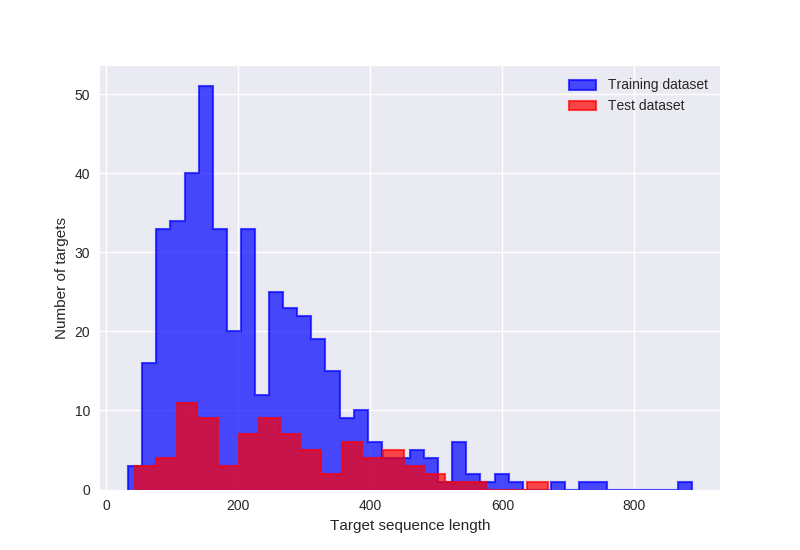
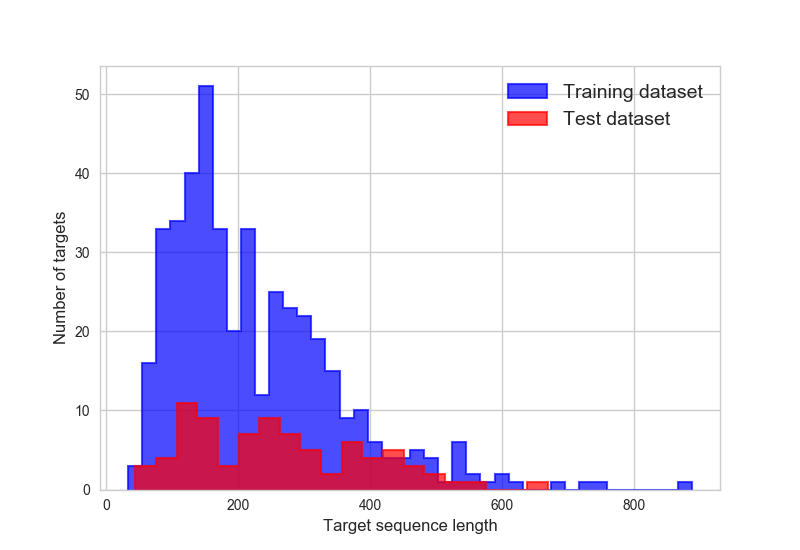
Draft: Figures and results update

diff --git a/scripts/Figures/plotTestResults.py b/scripts/Figures/plotTestResults.py
@@ -2,10 +2,14 @@ import os
 import sys
 import numpy as np
 from plotTrainingProcess import read_dataset_description, read_epoch_output, plotFunnels
+
 from matplotlib import pylab as plt
 from proteinProperties import getPDBBoundingBox
 import cPickle as pkl
 import operator
+
+import seaborn as sea
+sea.set_style("whitegrid")
 
 def get_correlations(proteins, decoys, decoys_scores, subset=None, return_all=False):
 	import scipy
@@ -347,29 +351,29 @@ def plot_test_outliers(	experiment_name = 'QA',
 	
 	
 if __name__=='__main__':
-	testResults = True
+	testResults = False
 	inspect_monomers = False
-	lossVsEcod = False
+	lossVsEcod = True
 	getOutliers = False
 	uniformDecoys = False
 	if testResults:
-		# plot_test_results(	experiment_name = 'QA_uniform',
-		# 					model_name = 'ranking_model_8',
-		# 					trainig_dataset_name = 'CASP_SCWRL',
-		# 					test_dataset_name = '3DRobot_set',
-		# 					# test_dataset_name = 'CASP_SCWRL',
-		# 					test_dataset_subset = 'datasetDescription.dat',
-		# 					decoy_ranging_column = 'gdt-ts',
-		# 					suffix = '_sFinal', best_worst=True)
-
 		plot_test_results(	experiment_name = 'QA_uniform',
 							model_name = 'ranking_model_8',
 							trainig_dataset_name = 'CASP_SCWRL',
-							test_dataset_name = 'CASP11Stage2_SCWRL',
+							test_dataset_name = '3DRobot_set',
 							# test_dataset_name = 'CASP_SCWRL',
 							test_dataset_subset = 'datasetDescription.dat',
 							decoy_ranging_column = 'gdt-ts',
-							suffix = '_sFinal')
+							suffix = '_sFinal', best_worst=True)
+
+		# plot_test_results(	experiment_name = 'QA_uniform',
+		# 					model_name = 'ranking_model_8',
+		# 					trainig_dataset_name = 'CASP_SCWRL',
+		# 					test_dataset_name = 'CASP11Stage2_SCWRL',
+		# 					# test_dataset_name = 'CASP_SCWRL',
+		# 					test_dataset_subset = 'datasetDescription.dat',
+		# 					decoy_ranging_column = 'gdt-ts',
+		# 					suffix = '_sFinal')
 
 		# plot_test_results(	experiment_name = 'RWPlus',
 		# 					model_name = None,
@@ -391,10 +395,37 @@ if __name__=='__main__':
 		# 					suffix = '',
 		# 					descending=False)
 
-		# plot_test_results(	experiment_name = 'ProQ3',
+		# plot_test_results(	experiment_name = 'ProQ3D',
 		# 					model_name = None,
 		# 					trainig_dataset_name = None,
 		# 					test_dataset_name = 'CASP11Stage1_SCWRL',
+		# 					# test_dataset_name = 'CASP_SCWRL',
+		# 					test_dataset_subset = 'datasetDescription.dat',
+		# 					decoy_ranging_column = 'gdt-ts',
+		# 					suffix = '',
+		# 					descending=False)
+		# plot_test_results(	experiment_name = 'ProQ2D',
+		# 					model_name = None,
+		# 					trainig_dataset_name = None,
+		# 					test_dataset_name = 'CASP11Stage1_SCWRL',
+		# 					# test_dataset_name = 'CASP_SCWRL',
+		# 					test_dataset_subset = 'datasetDescription.dat',
+		# 					decoy_ranging_column = 'gdt-ts',
+		# 					suffix = '',
+		# 					descending=False)
+		# plot_test_results(	experiment_name = 'ProQ3D',
+		# 					model_name = None,
+		# 					trainig_dataset_name = None,
+		# 					test_dataset_name = 'CASP11Stage2_SCWRL',
+		# 					# test_dataset_name = 'CASP_SCWRL',
+		# 					test_dataset_subset = 'datasetDescription.dat',
+		# 					decoy_ranging_column = 'gdt-ts',
+		# 					suffix = '',
+		# 					descending=False)
+		# plot_test_results(	experiment_name = 'ProQ2D',
+		# 					model_name = None,
+		# 					trainig_dataset_name = None,
+		# 					test_dataset_name = 'CASP11Stage2_SCWRL',
 		# 					# test_dataset_name = 'CASP_SCWRL',
 		# 					test_dataset_subset = 'datasetDescription.dat',
 		# 					decoy_ranging_column = 'gdt-ts',
@@ -415,6 +446,22 @@ if __name__=='__main__':
 	
 	
 	if lossVsEcod:
+		resProQ2D=plot_matched_results(	experiment_name = 'ProQ2D',
+								model_name = None,
+								trainig_dataset_name = None,
+								test_dataset_name = 'CASP11Stage2_SCWRL',
+								test_dataset_subset = 'datasetDescription.dat',
+								decoy_ranging_column = 'gdt-ts',
+								suffix = '',
+								descending=False)
+		resProQ3D=plot_matched_results(	experiment_name = 'ProQ3D',
+								model_name = None,
+								trainig_dataset_name = None,
+								test_dataset_name = 'CASP11Stage2_SCWRL',
+								test_dataset_subset = 'datasetDescription.dat',
+								decoy_ranging_column = 'gdt-ts',
+								suffix = '',
+								descending=False)
 		resVMQA=plot_matched_results(	experiment_name = 'VoroMQA',
 								model_name = None,
 								trainig_dataset_name = None,
@@ -442,20 +489,24 @@ if __name__=='__main__':
 							decoy_ranging_column = 'gdt-ts',
 							suffix = '_sFinal')
 		
-		fig = plt.figure(figsize=(12,10))
+		fig = plt.figure(figsize=(10,10))
 		ax = fig.add_subplot(111)
 		ind = np.arange(5)
 		width = 0.35
-		plt.bar(ind, resVMQA, width/4.0, label = 'VoroMQA')
-		plt.bar(ind+width/3.0, resRW, width/4.0, label = 'RWPlus', color = 'y')
-		plt.bar(ind+2.0*width/3.0, resCNN, width/4.0, label = '3DCNN', color = 'r')
+		plt.bar(ind, resCNN, width/6.0, label = '3DCNN', color = 'r')
+		plt.bar(ind+width/5.0, resRW, width/6.0, label = 'RWPlus', color = 'y')
+		plt.bar(ind+2.0*width/5.0, resVMQA, width/6.0, label = 'VoroMQA')
+		plt.bar(ind+3.0*width/5.0, resProQ2D, width/6.0, label = 'ProQ2D', color = 'g')
+		plt.bar(ind+4.0*width/5.0, resProQ3D, width/6.0, label = 'ProQ3D', color = 'b')
 		ax.set_xticklabels(['No information', 'A','A+X','A+X+H+T','A+X+H+T+F'], rotation=90)
 		ax.set_xticks(ind+width/2.0, minor=False)
 		plt.tick_params(axis='x', which='major', labelsize=16)
+		plt.tick_params(axis='y', which='major', labelsize=16)
 		ax.set_xlim([-0.5,4.5])
-		ax.set_aspect(25)
+		ax.set_ylim([0,0.14])
+		ax.set_aspect(30)
 		plt.ylabel('Loss',fontsize=16)
-		plt.legend()
+		plt.legend(prop={'size':16})
 		plt.savefig("LossVsECOD.png")
 		
 

diff --git a/scripts/Figures/ScoringFunctions/ProQ3.py b/scripts/Figures/ScoringFunctions/ProQ3.py
@@ -31,7 +31,10 @@ def prepare_dataset(dataset_name, output_dir):
 	
 	for n,protein in enumerate(proteins):
 		print protein
-		os.mkdir(os.path.join(results_dir, protein))
+		try:
+			os.mkdir(os.path.join(results_dir, protein))
+		except:
+			pass
 		decoys_output_filename = os.path.join(results_dir, protein, 'decoys.txt')
 		fasta_output_filename = os.path.join(results_dir, protein, 'seq.fasta')
 		with open(decoys_output_filename,'w') as fout:
@@ -88,8 +91,13 @@ def score_decoy_preprofiled(decoy_path, profile_path, output_path):
 	os.chdir(os.path.realpath(__file__)[:os.path.realpath(__file__).rfind('/')])
 
 
-def score_dataset(dataset_dir, profiles_dataset_dir=None):
-	for target in os.listdir(dataset_dir):
+def score_dataset(dataset_dir, profiles_dataset_dir=None, subset=None):
+	if not subset is None:
+		targets = subset
+	else:
+		targets = os.listdir(dataset_dir)
+
+	for target in targets:
 		target_dir = os.path.join(dataset_dir, target)
 		decoys_list_path = os.path.join(target_dir, 'decoys.txt')
 		sequence_path = os.path.join(target_dir, 'seq.fasta')
@@ -98,6 +106,7 @@ def score_dataset(dataset_dir, profiles_dataset_dir=None):
 		else:
 			profile_path = os.path.join(profiles_dataset_dir, target, 'seq.fasta')
 			score_decoys_preprofiled(decoys_list_path, profile_path, target_dir)
+			# print decoys_list_path, profile_path, target_dir
 
 def finish_score_dataset(dataset_name, dataset_dir, subset):
 	data_proteins, data_decoys = read_dataset_description('/home/lupoglaz/ProteinsDataset/%s/Description'%dataset_name,
@@ -169,19 +178,24 @@ def write_scores(proq3_output_dir, scores, score_num = 3):
 
 if __name__=='__main__':
 	
-	un_targets, in_targets = scan_dataset('CASP11Stage1_SCWRL', '/home/lupoglaz/Projects/MILA/deep_folder/models/ProQ3D') 
+	un_targets, in_targets = scan_dataset('CASP11Stage2_SCWRL', '/home/lupoglaz/Projects/MILA/deep_folder/models/ProQ3D') 
 	print len(un_targets), len(in_targets)
 	print in_targets
-	finish_score_dataset('CASP11Stage1_SCWRL', '/home/lupoglaz/Projects/MILA/deep_folder/models/ProQ3D/CASP11Stage1_SCWRL', in_targets)
-	# prepare_dataset('CASP11Stage2_SCWRL', '/home/lupoglaz/Projects/MILA/deep_folder/models/ProQ3') 
+	print un_targets
+	# finish_score_dataset('CASP11Stage1_SCWRL', '/home/lupoglaz/Projects/MILA/deep_folder/models/ProQ3D/CASP11Stage1_SCWRL', in_targets)
+	# prepare_dataset('CASP11Stage2_SCWRL', '/home/lupoglaz/Projects/MILA/deep_folder/models/ProQ3D')
 
 	# score_dataset('/home/lupoglaz/Projects/MILA/deep_folder/models/ProQ3/CASP11Stage1_SCWRL') 
-	# score_dataset('/home/lupoglaz/Projects/MILA/deep_folder/models/ProQ3/CASP11Stage2_SCWRL', 
-	# profiles_dataset_dir = '/home/lupoglaz/Projects/MILA/deep_folder/models/ProQ3/CASP11Stage1_SCWRL') 
+	# score_dataset('/home/lupoglaz/Projects/MILA/deep_folder/models/ProQ3D/CASP11Stage2_SCWRL', 
+	# 	profiles_dataset_dir = '/home/lupoglaz/Projects/MILA/deep_folder/models/ProQ3D/CASP11Stage1_SCWRL',
+	# 	subset = un_targets) 
 
-	# scores = get_scores('CASP11Stage1_SCWRL', '/home/lupoglaz/Projects/MILA/deep_folder/models/ProQ3/CASP11Stage1_SCWRL')
-	# write_scores('/home/lupoglaz/Projects/MILA/deep_folder/models/ProQ3/CASP11Stage1_SCWRL', scores)
+	# scores = get_scores('CASP11Stage1_SCWRL', '/home/lupoglaz/Projects/MILA/deep_folder/models/ProQ3D/CASP11Stage1_SCWRL')
+	# print scores
+	# write_scores('/home/lupoglaz/Projects/MILA/deep_folder/models/ProQ2D/CASP11Stage1_SCWRL', scores, score_num=0)
+	# write_scores('/home/lupoglaz/Projects/MILA/deep_folder/models/ProQ3D/CASP11Stage1_SCWRL', scores, score_num=3)
 
-	# scores = get_scores('CASP11Stage1_SCWRL', '/home/lupoglaz/Projects/MILA/deep_folder/models/ProQ3/CASP11Stage1_SCWRL')
-	# write_scores('/home/lupoglaz/Projects/MILA/deep_folder/models/ProQ2/CASP11Stage1_SCWRL', scores, 0)
+	scores = get_scores('CASP11Stage2_SCWRL', '/home/lupoglaz/Projects/MILA/deep_folder/models/ProQ3D/CASP11Stage2_SCWRL')
+	write_scores('/home/lupoglaz/Projects/MILA/deep_folder/models/ProQ2D/CASP11Stage2_SCWRL', scores, score_num=0)
+	write_scores('/home/lupoglaz/Projects/MILA/deep_folder/models/ProQ3D/CASP11Stage2_SCWRL', scores, score_num=3)
 	# print scores

diff --git a/scripts/Figures/plotTrainingProcess.py b/scripts/Figures/plotTrainingProcess.py
@@ -3,6 +3,7 @@ import sys
 import numpy as np
 from scipy.stats import pearsonr, spearmanr
 import seaborn as sea
+sea.set_style("whitegrid")
 
 def read_dataset_description(dataset_description_dir, dataset_description_filename, decoy_ranging = 'tm-score'):
 	description_path= os.path.join(dataset_description_dir,dataset_description_filename)
@@ -209,12 +210,12 @@ def plot_validation_correlations(	experiment_name, model_name, dataset_name, epo
 									description_dirname = 'Description',
 									data_subset = 'validation_set.dat',
 									scores_dir = 'validation',
-									output_name = 'valid_rescoring'):
+									output_name = 'kendall_validation'):
 	proteins, decoys = read_dataset_description('/home/lupoglaz/ProteinsDataset/%s/%s'%(dataset_name, description_dirname), data_subset)
 	epochs = [0]
 	taus = [0]
 	pearsons = [0]
-	losses = [0]
+	losses = [1.0]
 	for epoch in range(epoch_start, epoch_end+1):
 		#print 'Loading scoring ',epoch
 		input_path = '../../models/%s_%s_%s/%s/epoch_%d.dat'%(experiment_name, model_name, dataset_name, scores_dir, epoch)
@@ -227,11 +228,20 @@ def plot_validation_correlations(	experiment_name, model_name, dataset_name, epo
 
 	from matplotlib import pylab as plt
 	fig = plt.figure()
-	plt.title(experiment_name+'  '+model_name+'   '+dataset_name)
+	ax = fig.add_subplot(111)
+	# plt.title(experiment_name+'  '+model_name+'   '+dataset_name)
 	plt.plot(epochs,taus, '-.r', label = 'Kendall tau')
 	plt.plot(epochs,pearsons, '--b', label ='Pearson R')
 	plt.plot(epochs,losses, '-g', label ='Loss')
-	plt.legend()
+
+	ax.annotate('Best validation loss', xy=(40, losses[40]), xytext=(40, losses[40] + 0.5),
+            arrowprops=dict(facecolor='black', shrink=0.05),
+            )
+	plt.ylabel('Validation loss and correlations',fontsize=16)
+	plt.xlabel('Epoch',fontsize=16)
+	plt.legend(prop={'size':12})
+	plt.tick_params(axis='x', which='major', labelsize=12)
+	plt.tick_params(axis='y', which='major', labelsize=12)
 	plt.savefig('../../models/%s_%s_%s/%s.png'%(experiment_name, model_name, dataset_name, output_name))
 	return taus, pearsons, losses
 
@@ -279,11 +289,10 @@ def changeDataPath( decoys_scores_path, dataset_path):
 
 if __name__=='__main__':
 	
-	exp_name = 'QA_pretraining_clean_e2'
-	# dataset_name = '3DRobotTrainingSet'
+	exp_name = 'QA_uniform'
 	dataset_name = 'CASP_SCWRL'
 	model_name = 'ranking_model_8'
-	taus, pears, losses = plot_validation_correlations(exp_name, model_name, dataset_name, description_dirname = 'DescriptionClean')
+	taus, pears, losses = plot_validation_correlations(exp_name, model_name, dataset_name)
 	print 'Validation result %s: '%exp_name, taus[-1], pears[-1], losses[-1]
 	taus_10 = [ t for n, t in enumerate(taus) if n%10==0]
 	pears_10 = [ t for n, t in enumerate(pears) if n%10==0]
@@ -292,7 +301,7 @@ if __name__=='__main__':
 	for epoch in candidate_epochs:
 		print 'Epoch %d'%(epoch*10), taus[epoch*10], pears[epoch*10], losses[epoch*10]
 	# print np.max(taus), 5*np.argmax(taus), np.max(pears), 5*np.argmax(pears), np.min(losses), 5*np.argmin(losses)
-	plot_validation_funnels(exp_name, model_name, dataset_name, description_dirname = 'DescriptionClean')
+	# plot_validation_funnels(exp_name, model_name, dataset_name, description_dirname = 'DescriptionClean')
 
 	# taus, pears, losses = plot_validation_correlations(	exp_name, model_name, dataset_name,
 	# 													data_subset = 'training_set.dat',

diff --git a/draft/main.tex b/draft/main.tex
@@ -179,18 +179,17 @@ These datasets were preprocessed using SCWRL program to optimize side-chains.
 
     QA method & Loss & Pearson & Spearmann & Kendall \\
     \hline
-    \textbf{3DCNN}   &0.071 &0.528 &0.414 &0.318 \\
-    ProQ2   &0.081 &0.656 &0.534 &0.408 \\
+    ProQ3D   &0.048 &0.747 &0.658 &0.516 \\
+    ProQ2D   &0.068 &0.722 &0.589 &0.456 \\
+    \textbf{3DCNN}   &0.071 &0.528 &0.414 &0.318 \\    
     VoroMQA &0.095 &0.621 &0.504 &0.382 \\
-    Qprob   &0.097 &0.631 &0.517 &0.389 \\
     RWplus  &0.128 &0.500 &0.387 &0.291 \\ \hline
     
     \multicolumn{5}{ c }{Stage 2} \\ \hline
-    
-    ProQ2   &0.058 &0.372 &0.366 &0.256 \\
     \textbf{3DCNN}   &0.067 &0.420 &0.405 &0.285 \\
-    Qprob   &0.068 &0.381 &0.387 &0.272 \\
     VoroMQA &0.069 &0.444 &0.437 &0.313 \\ 
+    ProQ3D   &0.070 &0.450 &0.429 &0.304 \\
+    ProQ2D   &0.077 &0.435 &0.418 &0.296 \\
     RWplus  &0.095 &0.202 &0.246 &0.175 \\ \hline
 
 \end{tabular}

diff --git a/scripts/Figures/DatasetsProperties/plotLengthDistributions.py b/scripts/Figures/DatasetsProperties/plotLengthDistributions.py
@@ -10,6 +10,9 @@ import argparse
 from operator import itemgetter
 from Bio import SeqIO
 
+import seaborn as sea
+sea.set_style("whitegrid")
+
 def parse_files(filelist):
     target_seq = {}
     for filename in filelist:
@@ -70,7 +73,7 @@ if __name__=='__main__':
     print 'Training set:', len(training_dataset_targets)
     plt.hist(training_dataset_lengths, 40, normed=0, alpha=0.7, histtype='step', linestyle=('solid'), color=('blue'),lw=1.5, fill=True, label='Training dataset')
     plt.hist(test_dataset_lengths, 20, normed=0, histtype='step', linestyle=('solid'),color=('red'), lw=1.5, alpha=0.7, fill=True, label='Test dataset')
-    plt.ylabel('Number of targets')
-    plt.xlabel('Target sequence length')
-    plt.legend()
+    plt.ylabel('Number of targets',fontsize=12)
+    plt.xlabel('Target sequence length',fontsize=12)
+    plt.legend(prop={'size':14})
     plt.savefig('datasetLengthDistributions.png')

diff --git a/scripts/Figures/plotSamplingDistribution.py b/scripts/Figures/plotSamplingDistribution.py
@@ -8,6 +8,7 @@ from proteinProperties import getPDBBoundingBox
 import cPickle as pkl
 import operator
 import seaborn as sea
+sea.set_style("whitegrid")
 import matplotlib.mlab as mlab
 
 def read_output(filename):
@@ -102,6 +103,8 @@ def plot_several_decoys_dist():
 		print bins_rt_nat
 	
 	plt.legend(loc = 1)
+	plt.xlabel('Score',fontsize=14)
+	plt.ylabel('Normalized frequency',fontsize=14)
 	plt.savefig('decoys_sampling_dist.png')
 
 def plot_diff_sampling():
@@ -132,7 +135,10 @@ def plot_diff_sampling():
 	l = plt.plot(bins_rt, y, 'r--', linewidth=2, color=('green'), label='Normal distribution, mu = %.2f,  std = %.2f' % (mu, std))
 	# title = "Fit results: mu = %.2f,  std = %.2f" % (mu, std)
 	# plt.title(title)
+	plt.ylim([0,2.2])
 	plt.legend(loc = 2)
+	plt.xlabel('Score',fontsize=14)
+	plt.ylabel('Normalized frequency',fontsize=14)
 	# plt.show()
 	plt.savefig('sampling_dist.png')
 
